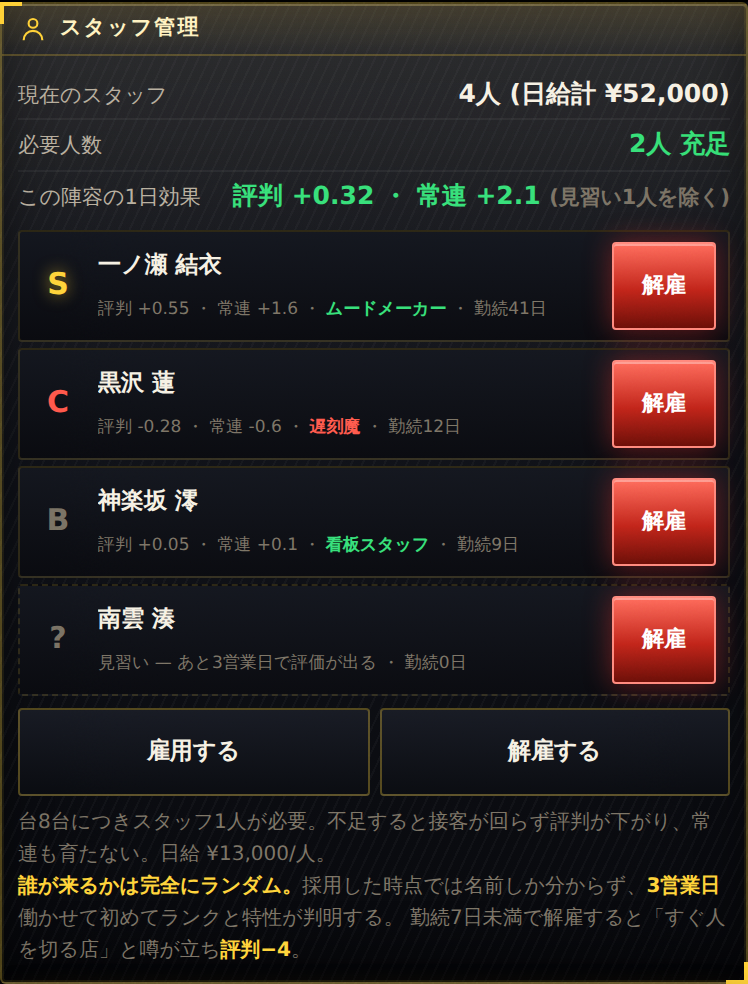
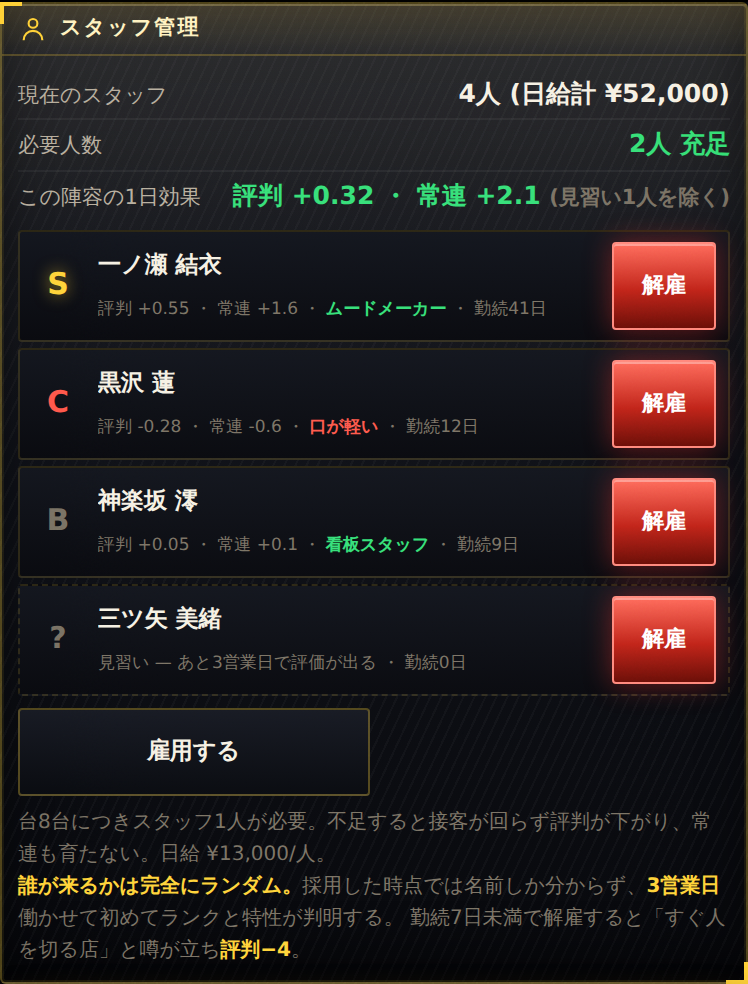
feat(pachinko): スタッフ名鑑を200人に / 金銭ペナルティ特性を廃止
## 「どんぶり勘定」(−¥9,000/日) を廃止
スタッフの能力に金絡みの差を一切残さないため、唯一の金銭ペナルティ特性を
「口が軽い」(店の内情を客に喋ってしまう / 評判 −0.30/日)に置き換えた。
これでランクは接客力と集客力しか持たず、給与は全員一律 ¥13,000 のまま、
特性にも資金を増減させるものが存在しない状態になった。
引いた人材はコストを考えずそのまま得、という形。

## スタッフ名鑑を200人ぶん用意
これまでは姓と名をその場でランダムに組み合わせていたので、同じ人が何度も
出たり組み合わせが機械的だった。200人ぶんの固定名簿に置き換えた。

- 全員が架空の人物。姓40種 × 名40種から重複なしで200通りを抽出
- ランク構成 S:11 / A:43 / B:93 / C:53 (意図した 6/19/50/25% とほぼ一致)
- 特性構成 なし63 / 遅刻魔29 / ムードメーカー22 / 無愛想22 /
  看板スタッフ18 / 口が軽い18 / 元整備士17 / 掃除が行き届く11
- 採用は名鑑からランダムに1人。いま在籍している人とは重複しない
- 1000回抽選での実測は S6.7% / A20.9% / B45.7% / C26.7%

名前・ランク・特性が人物ごとに固定されたので、同じ名前なら常に同じ能力。
その場生成に比べて「誰が来たか」が意味を持つようになった。

## 不具合修正
旧「解雇する」ボタン(#btnFire)を hidden にしていたが、.btn の display に
負けて表示されたままだった。行ごとの解雇ボタンと並んで紛らわしいので、
[hidden]{display:none!important} を追加して確実に隠した。
IDは保護対象(P-30)なのでDOMには残してある。

## 検証
- 静的回帰ガード 45 PASS / 0 FAIL
- ランタイムガード 104 PASS / 0 FAIL(名鑑まわり4項目を新規追加:
  200人ぶんあり名前が重複しない / 名前・ランク・特性がすべて有効 /
  採用が名鑑から引かれ在籍者と重複しない /
  能力に金銭ペナルティがない(全特性を1日回して資金の増減が0であること))
- 破壊テスト 27 PASS / 0 FAIL
- バランス: 平均的な引きではクリア日に影響なし(83日)。
  極端値は 全員S+ムードメーカー 69〜80日 / 全員C+口が軽い 92〜93日。
  全員Sは分布が二峰性で、12回の中央値が69日と80日の間で振れる。
- 難易度: easy 59 / normal 68 / hard 95日 — 前回から変化なし
- 360 / 390 / 430px で横スクロール0・コンソールエラー0

Claude-Session: https://claude.ai/code/session_01PWbmi5TXhmABMkaNNGiaUH

diff --git a/pachinko/index.html b/pachinko/index.html
@@ -44,6 +44,7 @@ body{
 }
 button,select,input{font-family:inherit;color:inherit;border:0;background:none;padding:0}
 button{cursor:pointer}
+[hidden]{display:none!important}
 :focus-visible{outline:2px solid var(--gold);outline-offset:2px}
 .num{font-family:var(--f-num);font-variant-numeric:tabular-nums;letter-spacing:.01em}
 .sr-only{position:absolute;width:1px;height:1px;overflow:hidden;clip:rect(0 0 0 0);white-space:nowrap}
@@ -3477,10 +3478,62 @@ function rgShowUnlock() {
    日給は全員 ¥13,000 のままなので simulateDay の wages 計算も無変更。
    ========================================================================== */
 
-const ST_SURNAME = ["佐々木","三ツ矢","黒沢","水無瀬","南雲","伊集院","日下部","綾瀬","小鳥遊","八神",
-                    "御手洗","一ノ瀬","来栖","柊","如月","神楽坂","天羽","四方田","榊原","鷺沼"];
-const ST_GIVEN_M = ["蓮","陽向","颯","悠真","湊","樹","朔","律","要","柊斗"];
-const ST_GIVEN_F = ["結衣","澪","陽菜","美緒","咲良","詩織","楓","栞","茜","千夏"];
+/* スタッフ名鑑。200人ぶんの「姓 名|ランク|特性」。全員が架空の人物で、
+   ランク・特性の構成比は下の重みどおりに作ってある。採用は毎回この中から
+   ランダムに1人(いま在籍していない人)を引く。 */
+const ST_POOL = [
+  "茅野 結衣|B|none", "四方田 碧|B|cold", "三ツ矢 律|B|face", "雲雀 咲良|C|none",
+  "神楽坂 美緒|B|face", "伊集院 静|B|gossip", "逢坂 詩織|A|late", "獅子堂 那由多|A|none",
+  "名護屋 那由多|B|none", "如月 奏太|A|mood", "三ツ矢 日和|A|cold", "鷺沼 樹|B|none",
+  "相馬 澪|C|mood", "篠塚 樹|C|clean", "九条 岳|A|cold", "相馬 日和|C|none",
+  "三ツ矢 美緒|B|late", "常磐 樹|S|late", "神楽坂 湊|C|none", "綾瀬 小春|A|gossip",
+  "日下部 要|C|mech", "狭霧 律|B|late", "伊集院 陽菜|C|cold", "御手洗 静|A|mood",
+  "三ツ矢 詩織|B|late", "綾瀬 岳|B|gossip", "朝比奈 栞|B|mood", "如月 陽向|B|face",
+  "黒沢 舞|C|none", "南雲 紗奈|C|none", "獅子堂 咲良|B|mech", "狭霧 小春|B|none",
+  "逢坂 碧|B|gossip", "一ノ瀬 千夏|S|mech", "鴻上 陽菜|C|late", "三ツ矢 柚葉|A|mech",
+  "榊原 美緒|A|none", "桐生 舞|B|none", "伊集院 柚葉|A|none", "榊原 碧|B|face",
+  "真鍋 司|A|none", "朝比奈 日和|A|mood", "神楽坂 律|C|clean", "日車 詩織|B|face",
+  "御手洗 湊|C|none", "葛西 柊斗|A|none", "小鳥遊 陽向|C|late", "綾瀬 朔|A|mood",
+  "常磐 伊織|A|cold", "小鳥遊 岳|B|clean", "逢坂 楓|B|none", "狭霧 美緒里|B|late",
+  "三ツ矢 碧|A|late", "相馬 司|S|late", "相馬 悠真|B|face", "望月 琴音|B|clean",
+  "鴻上 琴音|B|face", "九条 澪|B|cold", "逢坂 咲良|A|cold", "逢坂 栞|B|cold",
+  "榊原 悠真|C|late", "日車 隼人|C|clean", "葛西 結衣|B|none", "槙島 礼|C|none",
+  "名護屋 隼人|B|mood", "鴻上 司|S|gossip", "南雲 要|C|mood", "白鳥 碧|B|none",
+  "柊 悠真|A|late", "九条 湊|A|none", "一ノ瀬 湊|B|none", "獅子堂 隼人|B|none",
+  "天羽 日和|C|face", "九条 礼|C|none", "伊集院 舞|B|mech", "四方田 颯|C|none",
+  "黒沢 茜|S|gossip", "狭霧 詩織|C|clean", "佐々木 舞|B|mood", "望月 静|C|mood",
+  "八神 日和|C|clean", "小鳥遊 樹|A|mech", "狭霧 樹|B|face", "槙島 陽菜|A|none",
+  "篠塚 那由多|S|gossip", "雲雀 要|A|mech", "葛西 悠真|B|none", "小鳥遊 柊斗|C|none",
+  "四方田 雛|B|mech", "四方田 礼|A|mood", "四方田 静|C|none", "名護屋 紗奈|B|late",
+  "鷺沼 美緒里|B|clean", "小鳥遊 静|B|clean", "逢坂 慶|B|none", "榊原 理沙|B|mood",
+  "三ツ矢 陽向|S|cold", "榊原 静|B|late", "常磐 陽菜|B|none", "小鳥遊 美緒里|C|late",
+  "来栖 澪|B|mech", "蒼井 理沙|C|none", "榊原 紗奈|B|late", "四方田 真人|B|cold",
+  "蒼井 栞|B|none", "佐々木 結衣|C|none", "一ノ瀬 隼人|C|none", "茅野 慶|C|gossip",
+  "来栖 咲良|C|gossip", "黒沢 礼|C|mech", "三ツ矢 琴音|A|cold", "神楽坂 隼人|B|none",
+  "四方田 美緒|B|none", "日車 理沙|C|none", "常磐 碧|B|none", "南雲 司|A|late",
+  "蒼井 舞|B|mood", "一ノ瀬 悠真|C|none", "獅子堂 結衣|C|cold", "鷺沼 悠真|C|gossip",
+  "黒沢 柚葉|C|face", "三ツ矢 朔|C|cold", "日車 颯|S|none", "柊 結衣|B|none",
+  "一ノ瀬 澪|A|late", "常磐 静|B|none", "天羽 澪|A|none", "白鳥 千夏|B|late",
+  "柊 律|C|face", "神楽坂 澪|B|mech", "雲雀 司|B|none", "来栖 栞|B|cold",
+  "八神 柚葉|B|cold", "黒沢 悠真|B|mech", "鴻上 舞|A|mood", "天羽 雛|B|none",
+  "桐生 柊斗|B|cold", "如月 礼|A|face", "一ノ瀬 茜|A|gossip", "柊 要|A|mech",
+  "鴻上 千夏|B|mood", "水無瀬 碧|C|none", "茅野 琴音|A|none", "日車 栞|A|face",
+  "常磐 理沙|C|gossip", "常磐 朔|B|face", "朝比奈 颯|B|cold", "槙島 岳|C|mood",
+  "桐生 詩織|A|mech", "桐生 咲良|A|none", "一ノ瀬 雛|B|late", "南雲 澪|B|none",
+  "狭霧 雛|B|gossip", "茅野 雛|B|cold", "黒沢 颯|A|mood", "柊 詩織|B|none",
+  "九条 慶|B|none", "南雲 千夏|A|late", "狭霧 結衣|B|late", "天羽 樹|C|mood",
+  "真鍋 奏太|C|gossip", "常磐 雛|C|late", "逢坂 那由多|B|none", "綾瀬 琴音|C|none",
+  "日下部 理沙|B|gossip", "雲雀 詩織|A|gossip", "朝比奈 舞|A|none", "獅子堂 碧|B|mood",
+  "来栖 小春|B|clean", "綾瀬 柚葉|A|none", "一ノ瀬 奏太|A|mech", "望月 司|B|cold",
+  "望月 奏太|C|none", "白鳥 静|B|cold", "日車 陽菜|B|cold", "神楽坂 静|S|none",
+  "御手洗 紗奈|C|late", "天羽 奏太|C|none", "桐生 朔|A|cold", "柊 岳|B|none",
+  "狭霧 陽向|B|clean", "榊原 湊|B|mood", "小鳥遊 真人|B|mech", "伊集院 理沙|B|mood",
+  "常磐 那由多|C|late", "来栖 静|S|face", "鷺沼 理沙|B|mood", "四方田 朔|B|gossip",
+  "鷺沼 蓮|B|none", "蒼井 奏太|S|late", "鴻上 陽向|B|none", "榊原 那由多|B|none",
+  "獅子堂 茜|C|late", "望月 千夏|C|face", "榊原 律|C|late", "如月 岳|B|face",
+  "名護屋 咲良|B|gossip", "雲雀 美緒里|B|late", "来栖 湊|B|face", "水無瀬 紗奈|A|mech",
+];
+const ST_POOL_N = ST_POOL.length;
 
 /* ランク: 接客力(評判への日次寄与)と出現率 */
 /* serve = 評判への日次寄与 / draw = 常連への日次寄与。
@@ -3502,7 +3555,7 @@ const ST_TRAIT = {
   clean:  { w: 8,  good: true,  name: "掃除が行き届く", desc: "店内が清潔に保たれる (評判 +0.20 / 常連 +0.4 /日)" },
   late:   { w: 12, good: false, name: "遅刻魔",         desc: "たまに開店に間に合わない (25%で評判 −1.6)" },
   cold:   { w: 12, good: false, name: "無愛想",         desc: "接客に難がある (評判 −0.40/日)" },
-  sloppy: { w: 11, good: false, name: "どんぶり勘定",   desc: "レジが毎日わずかに合わない (−¥9,000/日)" },
+  gossip: { w: 11, good: false, name: "口が軽い",       desc: "店の内情を客に喋ってしまう (評判 −0.30/日)" },
 };
 const ST_REVEAL_DAYS = 3;   // 何営業日で評価が出るか
 const ST_LOYAL_DAYS = 7;    // これ未満で解雇すると評判ペナルティ
@@ -3510,27 +3563,24 @@ const ST_FIRE_REP = 4;      // 早期解雇の評判ペナルティ
 const ST_REP_GAIN = 1.25;    // 平均接客力 → 日次の評判
 const ST_DRAW_GAIN = 0.15;  // 平均集客力 → 日次の常連
 
-const wpick = (obj, rnd) => {
-  const keys = Object.keys(obj);
-  const tot = keys.reduce((a, k) => a + obj[k].w, 0);
-  let r = (rnd ? rnd() : Math.random()) * tot;
-  for (const k of keys) { r -= obj[k].w; if (r < 0) return k; }
-  return keys[keys.length - 1];
-};
 
-function stMakeName() {
-  const f = Math.random() < 0.5;
-  const g = f ? ST_GIVEN_F : ST_GIVEN_M;
-  return ST_SURNAME[Math.floor(Math.random() * ST_SURNAME.length)] + " " + g[Math.floor(Math.random() * g.length)];
+const stEntry = i => {
+  const p = String(ST_POOL[i] || ST_POOL[0]).split("|");
+  return { nm: p[0], r: ST_RANK[p[1]] ? p[1] : "B", t: ST_TRAIT[p[2]] ? p[2] : "none" };
+};
+/* 名鑑からランダムに1人。いま在籍している人とは重複させない。 */
+function stDraw() {
+  const taken = new Set((state.ex && state.ex.st && Array.isArray(state.ex.st.list) ? state.ex.st.list : []).map(m => m.nm));
+  for (let tries = 0; tries < 60; tries++) {
+    const e = stEntry(Math.floor(Math.random() * ST_POOL_N));
+    if (!taken.has(e.nm)) return e;
+  }
+  return stEntry(Math.floor(Math.random() * ST_POOL_N));
 }
+function stMakeName() { return stEntry(Math.floor(Math.random() * ST_POOL_N)).nm; }
 function stMake(known) {
-  return {
-    nm: stMakeName(),
-    r: wpick(ST_RANK),
-    t: wpick(ST_TRAIT),
-    d: 0,                    // 勤続営業日数
-    k: known === true,       // 評価が判明しているか
-  };
+  const e = stDraw();
+  return { nm: e.nm, r: e.r, t: e.t, d: 0, k: known === true };
 }
 
 /* ---------- 状態 ---------- */
@@ -3626,7 +3676,7 @@ function stDay() {
       case "mech":   pop += 0.20; break;
       case "clean":  sv += 0.20; dr += 0.50; break;
       case "cold":   sv -= 0.40; break;
-      case "sloppy": money -= 9000; break;
+      case "gossip": sv -= 0.30; break;
       case "late":
         if (Math.random() < 0.25) { sv -= 1.60; notes.push(`⏰ ${m.nm}が寝坊。開店に穴が空いた…`); }
         break;

diff --git a/pachinko/guard/runtime-guard.js b/pachinko/guard/runtime-guard.js
@@ -131,6 +131,31 @@ const ok = (n, c, d='') => { if (c) { pass++; console.log('  PASS  ' + n); } els
       for (let i = 0; i < 400; i++) { const m = stMake(false); seen.add(m.r + '/' + m.t); }
       return seen.size >= 12;
     }));
+    ok('FN スタッフ名鑑が200人ぶんあり、全員名前が重複しない', await p.evaluate(() =>
+      ST_POOL.length === 200 && new Set(ST_POOL.map(x => x.split('|')[0])).size === 200));
+    ok('FN 名鑑の名前・ランク・特性がすべて有効', await p.evaluate(() => ST_POOL.every(x => {
+      const p = x.split('|');
+      return p.length === 3 && p[0].length > 0 && !/[A-Za-z\u0400-\u04FF]/.test(p[0])
+        && ST_RANK[p[1]] && ST_TRAIT[p[2]];
+    })));
+    ok('FN 採用は名鑑の中から引かれ、在籍者と重複しない', await p.evaluate(() => {
+      const names = new Set(ST_POOL.map(x => x.split('|')[0]));
+      const taken = stState().list.map(m => m.nm);
+      for (let i = 0; i < 200; i++) { const m = stMake(false); if (!names.has(m.nm) || taken.includes(m.nm)) return false; }
+      return true;
+    }));
+    ok('FN スタッフの能力に金銭ペナルティがない(給与は完全一律)', await p.evaluate(() => {
+      // ランクは接客力と集客力しか持たず、特性にも資金を減らすものがない
+      const rankClean = Object.values(ST_RANK).every(r => Object.keys(r).sort().join() === 'draw,label,serve,w');
+      const before = state.money;
+      const s = stState(); const keep = s.list.slice();
+      s.list = Object.keys(ST_TRAIT).map(t => ({ nm: '検査 ' + t, r: 'B', t, d: 99, k: true }));
+      state.staff = s.list.length;
+      stDay();
+      const moved = state.money - before;
+      s.list = keep; state.staff = keep.length; save(true);
+      return rankClean && moved === 0;
+    }));
     ok('FN 早期解雇で評判が下がり、7日以上なら下がらない', await p.evaluate(() => {
       window.confirm = () => true;
       const s = stState();
